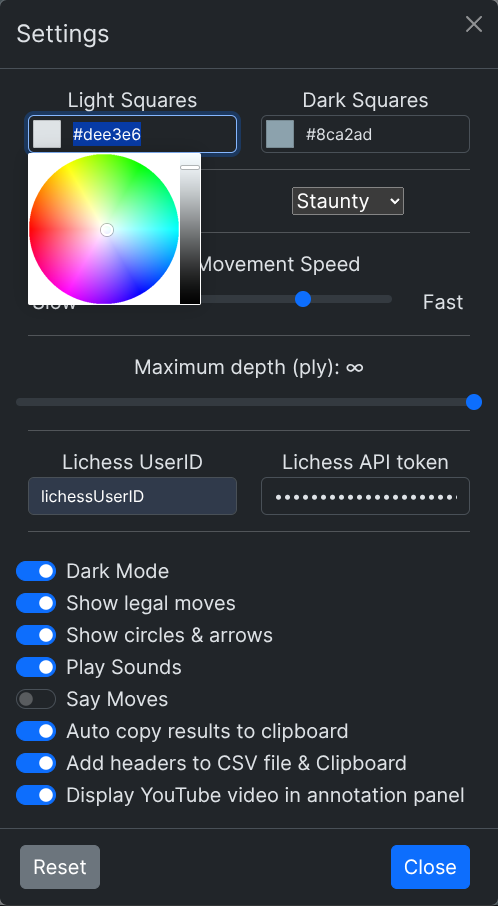
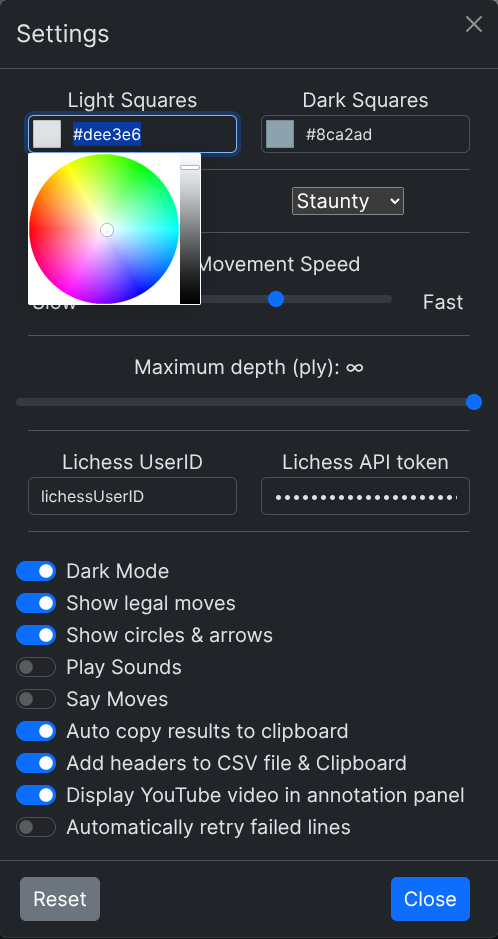
1.13.6 Beta 2 release

diff --git a/beta/src/app/chess-pgn-trainer.js b/beta/src/app/chess-pgn-trainer.js
@@ -32,8 +32,6 @@ let moveHistory;
 let puzzleset;
 let errorcount;
 let error;
-let elapsedTimeHHMMSS;
-let avgTimeHHMMSS;
 let errorRate;
 let setcomplete;
 let stats;
@@ -495,7 +493,6 @@ function goToNextPuzzle() {
 	}
 
 	// Check to see if the set is complete
-
 	if (increment + 1 === puzzleset.length) {
 		setcomplete = true;
 	}
@@ -518,7 +515,7 @@ function goToNextPuzzle() {
 
 /**
  * Create a PGN of the failures into memory
- * 
+ *
  * @returns A modified version of the PGN to add back any current option tags along with each variation that failed
  */
 function createMistakesPGN() {
@@ -573,7 +570,7 @@ function retryFailed() {
 	if (failedVariations.size > 0) {
 		var mistakesPGN = createMistakesPGN();
 		$('#resmodal_close').click();
-		postPGNReadSetup(mistakesPGN, 'retry');
+		postPGNReadSetup(mistakesPGN, currentFileName + ' - retry');
 		startTest();
 	}
 }
@@ -595,7 +592,7 @@ function gameOver() {
 	generateStats();
 
 	// Add check for auto-retry of failures - If not active (or no failures) then just show the results
-	if (dataTools.readItem('autoRetryFailures') == 'true'  && failedVariations.size > 0) {
+	if (dataTools.readItem('autoRetryFailures') == 'true' && failedVariations.size > 0) {
 		retryFailed();
 		return;
 	}
@@ -1176,8 +1173,8 @@ function loadPuzzle(PGNPuzzle) {
 	}
 
 	// Load the moves and comments of the PGN into memory
-		
-	// If there is commentary before the first move, show it in the annotation panel
+
+	// If there is commentary before the first move, add it to the current game
 	if (PGNPuzzle.gameComment?.comment) {
 		game.setComment(PGNPuzzle.gameComment.comment);
 	}
@@ -1195,15 +1192,18 @@ function loadPuzzle(PGNPuzzle) {
 
 		// Add the drawings in the puzzle to the the current game if there are any
 		if (move.commentDiag?.colorFields) {
-			if (game.getComment() === undefined) {game.setComment('')}
-			game.setComment(game.getComment() + '[%csl ' + move.commentDiag.colorFields.join(",")+ ']');
+			if (game.getComment() === undefined) {
+				game.setComment('');
+			}
+			game.setComment(game.getComment() + '[%csl ' + move.commentDiag.colorFields.join(',') + ']');
 		}
 
 		if (move.commentDiag?.colorArrows) {
-			if (game.getComment() === undefined) {game.setComment('')}
-			game.setComment(game.getComment() + '[%cal ' + move.commentDiag.colorArrows.join(",")+ ']');
+			if (game.getComment() === undefined) {
+				game.setComment('');
+			}
+			game.setComment(game.getComment() + '[%cal ' + move.commentDiag.colorArrows.join(',') + ']');
 		}
-
 	});
 
 	// Enable the next button if there are no moves to play at all or if the first move is also a null move, regardless of the Next button setting
@@ -1523,8 +1523,8 @@ function testClipboard() {
 
 /**
  * Generate the performance data to be used in the CSV/Clipboard output
- * 
- * @param {*} separator -   The value to use to separate the individual values. 
+ *
+ * @param {*} separator -   The value to use to separate the individual values.
  * 							Can include things like '\t' (for tab-separated) or ',' for comma-separated
  * @returns String-formatted data to be used in the output
  */
@@ -1576,12 +1576,11 @@ function outputStats2CSV() {
  */
 function generateStats() {
 	// Compute the time and error values
-	const currentDate = new Date().toJSON().slice(0, 10);
 	const endDateTime = new Date();
 	const ElapsedTimeSeconds = (endDateTime - startDateTime - pauseDateTimeTotal) / 1000; // Subtracting the paused time from total elapsed time
-	elapsedTimeHHMMSS = new Date(ElapsedTimeSeconds * 1000).toISOString().slice(11, 19);
+	const elapsedTimeHHMMSS = new Date(ElapsedTimeSeconds * 1000).toISOString().slice(11, 19); // Compute the elapsed time from start to finish
 	const AvgTimeSeconds = Math.round(ElapsedTimeSeconds / puzzleset.length);
-	avgTimeHHMMSS = new Date(AvgTimeSeconds * 1000).toISOString().slice(11, 19);
+	const avgTimeHHMMSS = new Date(AvgTimeSeconds * 1000).toISOString().slice(11, 19);
 	errorRate = errorcount / puzzleset.length;
 
 	// Get the mode (random or sequential)
@@ -1590,13 +1589,50 @@ function generateStats() {
 		mode = 'Random';
 	}
 
+	// Format the ending date/time into a timestamp
+	const date = endDateTime.toISOString().split('T')[0];
+	const time = endDateTime.toTimeString().split(' ')[0];
+
+	// Find out if this is a re-attempt
+	let retryFlag = false;
+	if (currentFileName.includes('retry')) {
+		retryFlag = true;
+	}
+
+	// Find out if this is a Lichess study
+	let lichessFlag = false;
+	if (currentFileName.includes('https://lichess.org/api/study')) {
+		lichessFlag = true;
+	}
+
 	// Build the stats object
 	stats = {};
-
-	stats.date = currentDate;
+	stats.date = `${date} ${time}`;
 	stats.filename = currentFileName;
-	stats.round = '';
 	stats.series = puzzleset[0].tags.Event;
+
+	// If this file was a Lichess Study
+	if (lichessFlag) {
+		// Overwrite the filename with the Study name
+		if (puzzleset[0].tags?.StudyName) {
+			stats.filename = puzzleset[0].tags.StudyName;
+		}
+
+		if (retryFlag) {
+			stats.filename = stats.filename + ' - retry';
+		}
+
+		// Overwrite the series name with the chapter name
+		if (puzzleset[0].tags?.ChapterName) {
+			stats.series = puzzleset[0].tags.ChapterName;
+		}
+
+		// If "entire study" was selected then use that instead for the series name
+		if (puzzleset.length > 1) {
+			stats.series = 'Entire Study';
+		}
+	}
+
 	stats.mode = mode;
 	stats.setlength = puzzleset.length;
 	stats.errors = errorcount;
@@ -1653,8 +1689,8 @@ function showStats() {
 
 /**
  * Validates the max depth input and resets it if invalid
- * 
- * @param {*} maxDepthNumber 
+ *
+ * @param {*} maxDepthNumber
  * @returns A valid maximum depth value for variation pruning
  */
 function validateMaxDepth(maxDepthNumber) {
@@ -1671,7 +1707,7 @@ function validateMaxDepth(maxDepthNumber) {
 
 /**
  * Remove variations from array that are identical.  Used when variations are pruned due to max depth being shorter than variation length
- * 
+ *
  * @param {*} puzzlearray - The array of puzzles/variations to de-duplicate
  * @returns A de-duplicated copy of the array
  */

diff --git a/beta/src/components/lichess/lichess-module.js b/beta/src/components/lichess/lichess-module.js
@@ -439,6 +439,7 @@ function addCustomEvent(id, url) {
 		resetGame();
 		$(this).blur();
 		$('#lichess_close').click();
+		console.log(chapterData);
 		postPGNReadSetup(chapterData, url);
 		removeLoadingSpinner();
 	});

diff --git a/beta/README.md b/beta/README.md
@@ -47,7 +47,7 @@ This tool has a number of features that you might find useful:
 * **Experimental** text to speech to have the computer say the moves.  It currently has an issue due to the speed of the computer moves where your move won't get said since the computer plays the next move immediately and that will cancel the current speech and start the next one.  Works fine when playing both sides.  By default it is also disabled.  Works best in Chrome.
 * Integration with Lichess studies.  You can access your studies on Lichess and drill a chapter or an entire study directly without the need to download a pgn. See the [Wiki](https://github.com/rodpolako/Chess-PGN-Trainer/wiki#lichess-study-integration) on how exactly to use this feature.
 * Ability to set a maximium move depth (ply)
-* Ability to have the tool just test you on failed puzzles after a run.  Included is a "Crunch Mode" where it will continue a run until all puzzles are successful.  Useful when you want to drill a set rapidly.
+* Ability to have the tool just test you on failed puzzles after a run. Included is a "Crunch Mode" where it will continue a run until all puzzles are successful. Useful when you want to drill a set rapidly until 100%.
 
 ## Setup Instructions
 If you just want to use the trainer and and not bother hosting the page yourself, you can just use the live link [here](https://rodpolako.github.io/).  The latest version of the trainer will always be hosted there.

diff --git a/beta/Release Notes.md b/beta/Release Notes.md
@@ -1,13 +1,14 @@
 # Changes in this version:
 
 ## New features ##
-* Crunch mode - Added a feature to automatically retry any failed puzzles.  With this setting turned on, the testing will continue until all the puzzles have been completed correctly.  Any failed puzzles will be retested until correct.
+* Crunch mode - Added a feature to automatically retry any failed puzzles.  With this setting turned on, the testing will continue until all the puzzles have been completed correctly.  Any failed puzzles will be retested until correct.  Default is off.
+* Reworked the data reporting capabilities to remove some columns and update existing ones.
 
 ## Bug fixes ##
 * Fixed a bug where the locally cached copy of lichess studies would remain if the Lichess UserID changed.
 * Fixed a bug where the list of studies don't always retain the corect sort.
-* Fixed a bug where annotations and drawings were not present in the retried lines.
-* Fixed minor cosmetic error with the lcoation of the sort functions in the Lichess study listing.
+* Fixed a bug where annotations and drawings were not present in the re-attempted lines.
+* Fixed cosmetic issue with the location of the sort functions in the Lichess study listing.
 
 ## Maintenance ##
 * No other maintenance items with this release.
